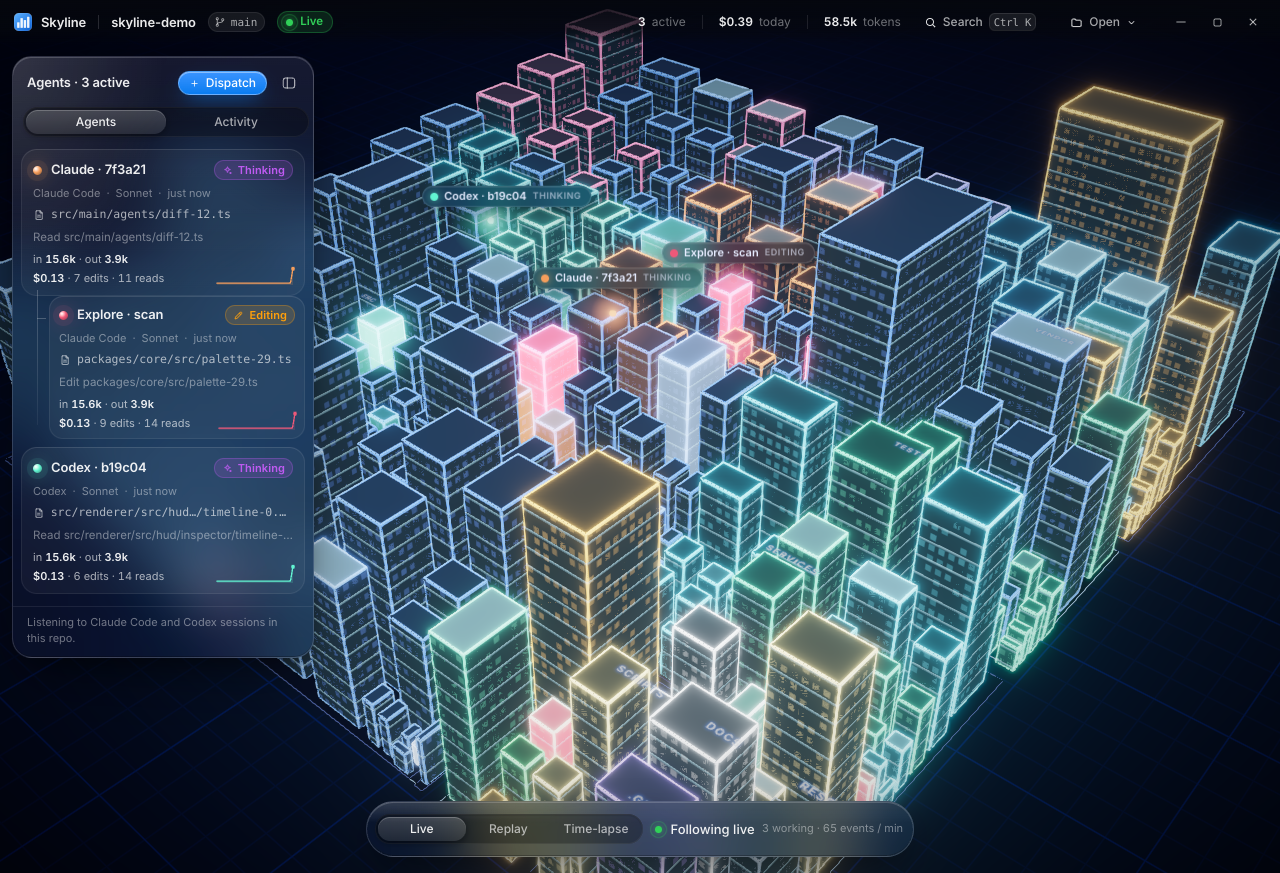
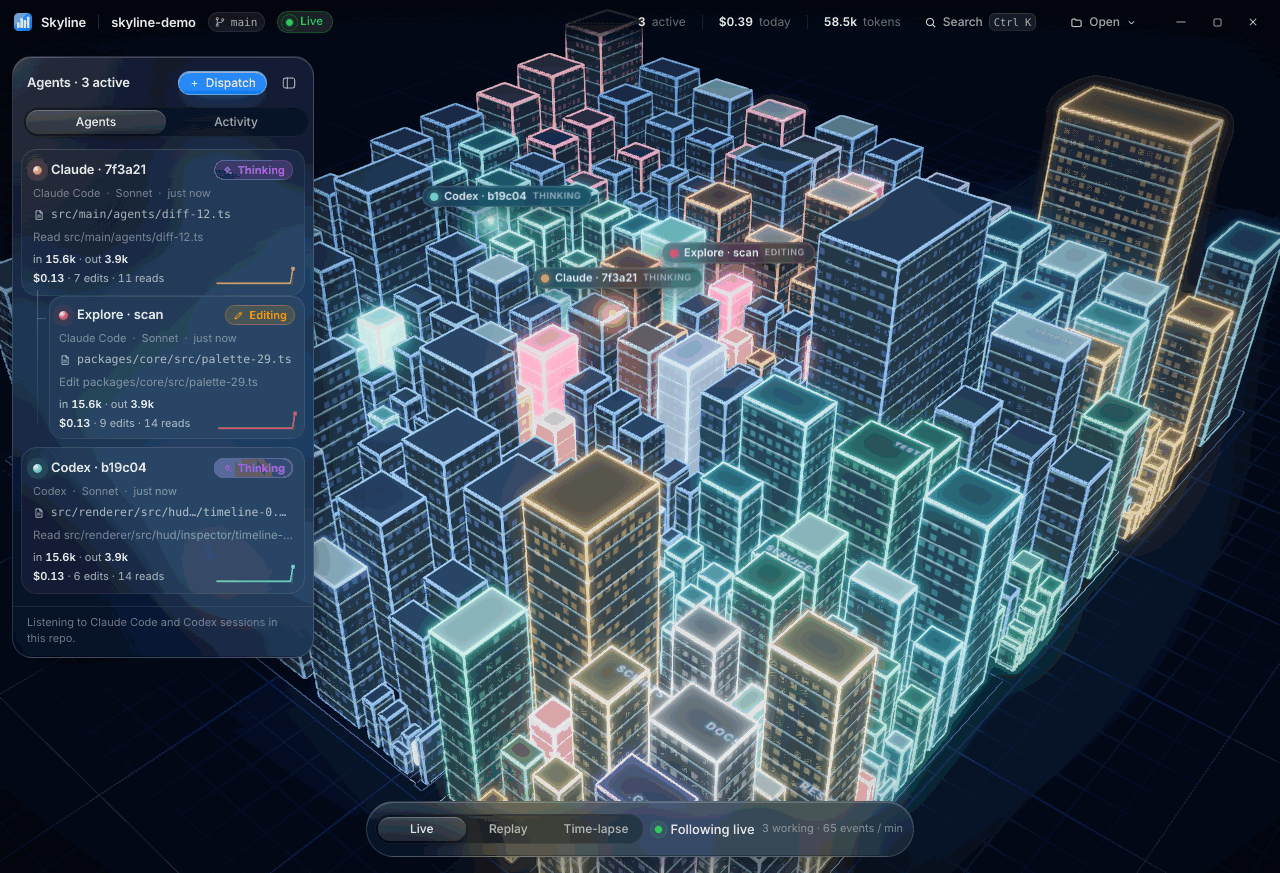
Final UX pass: AA contrast on glass, min-window layout fixes, legend ramps, new screenshots
Claude-Session: https://claude.ai/code/session_01L1TEW9iMr6nvGwNt7qQcrD

diff --git a/src/renderer/src/hud/ColorLegend.tsx b/src/renderer/src/hud/ColorLegend.tsx
@@ -2,7 +2,7 @@
 // Click (or C) cycles the mode. Sits above the timeline band, and clears the inspector when one is open.
 import { useSky } from '../state/store'
 import { useNow } from '../lib/hooks'
-import { middleEllipsis, relativeTime } from '../lib/format'
+import { relativeTime, tailEllipsis } from '../lib/format'
 import { COLOR_MODE_LABEL, LEGEND_LIMIT, type ColorMode, type LegendEntry } from '../lib/colorModes'
 
 function countText(mode: ColorMode, e: LegendEntry, now: number): string | null {
@@ -10,6 +10,12 @@ function countText(mode: ColorMode, e: LegendEntry, now: number): string | null 
   if (mode === 'age' && e.ts !== undefined && e.ts > 0) return relativeTime(e.ts, now)
   if (e.count !== undefined) return e.count.toLocaleString('en-US')
   return null
+}
+
+/** What the two ends of a churn or age ramp mean. */
+const RAMP_ENDS: Partial<Record<ColorMode, [string, string]>> = {
+  churn: ['Rarely changed', 'Most changed'],
+  age: ['Older', 'Recent']
 }
 
 export function ColorLegend() {
@@ -24,6 +30,7 @@ export function ColorLegend() {
   const entries = plan.legend.slice(0, LEGEND_LIMIT)
   const label = COLOR_MODE_LABEL[mode]
   const ramp = plan.ramp
+  const ends = RAMP_ENDS[mode]
   const gradient = ramp
     ? `linear-gradient(90deg, ${ramp.map((c, i) => `${c} ${Math.round((i / Math.max(1, ramp.length - 1)) * 100)}%`).join(', ')})`
     : null
@@ -49,6 +56,12 @@ export function ColorLegend() {
         <span className="legend__hint kbd">C</span>
       </div>
       {gradient && <div className="legend__ramp" style={{ background: gradient }} aria-hidden="true" />}
+      {gradient && ends && (
+        <div className="legend__scale" aria-hidden="true">
+          <span>{ends[0]}</span>
+          <span>{ends[1]}</span>
+        </div>
+      )}
       {plan.note && <div className="legend__note">{plan.note}</div>}
       {entries.length > 0 && (
         <ul className="legend__list">
@@ -57,7 +70,7 @@ export function ColorLegend() {
             return (
               <li key={e.key} className="legend__row" title={e.label}>
                 <span className="legend__dot" style={{ background: e.color, boxShadow: `0 0 8px ${e.color}` }} aria-hidden="true" />
-                <span className="legend__label">{mode === 'churn' || mode === 'age' ? middleEllipsis(e.label, 26) : e.label}</span>
+                <span className="legend__label">{mode === 'churn' || mode === 'age' ? tailEllipsis(e.label, 18) : e.label}</span>
                 {extra && <span className="legend__count">{extra}</span>}
               </li>
             )

diff --git a/src/renderer/src/styles/hud.css b/src/renderer/src/styles/hud.css
@@ -38,7 +38,7 @@
   align-items: center;
   gap: 12px;
   padding: 0 12px 0 14px;
-  background: linear-gradient(180deg, rgba(5, 7, 13, 0.92) 0%, rgba(5, 7, 13, 0.64) 68%, rgba(5, 7, 13, 0) 100%);
+  background: linear-gradient(180deg, rgba(5, 7, 13, 0.94) 0%, rgba(5, 7, 13, 0.82) 60%, rgba(5, 7, 13, 0) 100%);
   -webkit-app-region: drag;
 }
 
@@ -70,6 +70,8 @@
   letter-spacing: -0.01em;
   color: var(--text-1);
   max-width: 240px;
+  /* The repo name is the title of the view. Shrink the branch pill first, never this. */
+  flex: none;
 }
 
 .branch-pill {
@@ -532,7 +534,8 @@
 /* ---------- timeline ---------- */
 
 .hud {
-  --band: 132px;
+  /* Height reserved at the bottom for the timeline. The tall replay bar needs about 140px plus its gap. */
+  --band: 150px;
 }
 
 .timeline-wrap {
@@ -1581,6 +1584,12 @@
   }
 }
 
+@media (max-width: 1100px) {
+  .branch-pill {
+    max-width: 112px;
+  }
+}
+
 /* ---------- capture: title-bar menu, flyover HUD hide, progress pill ---------- */
 .hud--flying > :not(.capture-pill) {
   display: none !important;
@@ -1657,7 +1666,8 @@
 .capture-pill {
   position: absolute;
   left: 50%;
-  bottom: 24px;
+  /* Floats above the timeline band, so it never covers the scrubber's status line. */
+  bottom: calc(var(--band, 132px) + 12px);
   z-index: 70;
   display: flex;
   align-items: center;
@@ -1733,7 +1743,7 @@
   position: absolute;
   right: 12px;
   bottom: calc(var(--band, 132px) + 12px);
-  width: 216px;
+  width: 248px;
   box-sizing: border-box;
   padding: 10px 12px 10px 14px;
   border-radius: var(--r-s);
@@ -1786,6 +1796,16 @@
   margin: 9px 0 2px;
   border-radius: 999px;
   box-shadow: 0 0 12px rgba(255, 255, 255, 0.06);
+}
+
+.legend__scale {
+  display: flex;
+  justify-content: space-between;
+  gap: 8px;
+  margin-top: 4px;
+  color: var(--text-2);
+  font-size: 10.5px;
+  line-height: 1.2;
 }
 
 .legend__note {

diff --git a/src/renderer/src/lib/colorModes.ts b/src/renderer/src/lib/colorModes.ts
@@ -8,7 +8,6 @@ import type { CityBuilding, FileNode, Lang } from '../../../shared/types'
 import { LANG_COLORS, LANG_LABEL } from '../../../shared/lang'
 import { hexToRgb } from '../../../shared/color'
 import type { NeighborhoodIndex } from '../../../shared/layout'
-import { middleEllipsis } from './format'
 
 export const COLOR_MODES = ['area', 'language', 'churn', 'age'] as const
 export type ColorMode = (typeof COLOR_MODES)[number]
@@ -225,7 +224,7 @@ export function buildColorPlan(
       const commits = values[i] ?? 0
       return {
         key: b?.path ?? '',
-        label: middleEllipsis(b?.path ?? '', 34),
+        label: b?.path ?? '',
         color: rampAt(CHURN_RAMP, ranks[i] ?? 0),
         count: commits
       }
@@ -238,7 +237,7 @@ export function buildColorPlan(
     const b = buildings[i]
     return {
       key: b?.path ?? '',
-      label: middleEllipsis(b?.path ?? '', 34),
+      label: b?.path ?? '',
       color: rampAt(AGE_RAMP, ranks[i] ?? 0),
       ts: values[i] ?? 0
     }

diff --git a/src/renderer/src/lib/format.ts b/src/renderer/src/lib/format.ts
@@ -49,6 +49,12 @@ export function middleEllipsis(s: string, max = 40): string {
   return `${s.slice(0, head)}…${tail > 0 ? s.slice(-tail) : ''}`
 }
 
+/** Keeps the end of a string, which holds the file name: "…renderer/src/hud/Inspector.tsx". */
+export function tailEllipsis(s: string, max = 24): string {
+  if (s.length <= max) return s
+  return `…${s.slice(-(max - 1))}`
+}
+
 /** 45s, 3m 12s, 1h 04m. */
 export function duration(ms: number): string {
   const total = Math.max(0, Math.floor(ms / 1000))

diff --git a/src/renderer/src/styles/glass.css b/src/renderer/src/styles/glass.css
@@ -19,8 +19,9 @@
 
   /* Text */
   --text-1: rgba(255, 255, 255, 0.92);
-  --text-2: rgba(255, 255, 255, 0.64);
-  --text-3: rgba(255, 255, 255, 0.42);
+  /* Body and caption text on glass. text-3 is the faintest tone that still meets WCAG AA (4.5:1) on the dark fill. */
+  --text-2: rgba(255, 255, 255, 0.72);
+  --text-3: rgba(255, 255, 255, 0.56);
 
   /* Glass */
   --glass-fill: rgba(22, 26, 40, 0.42);
